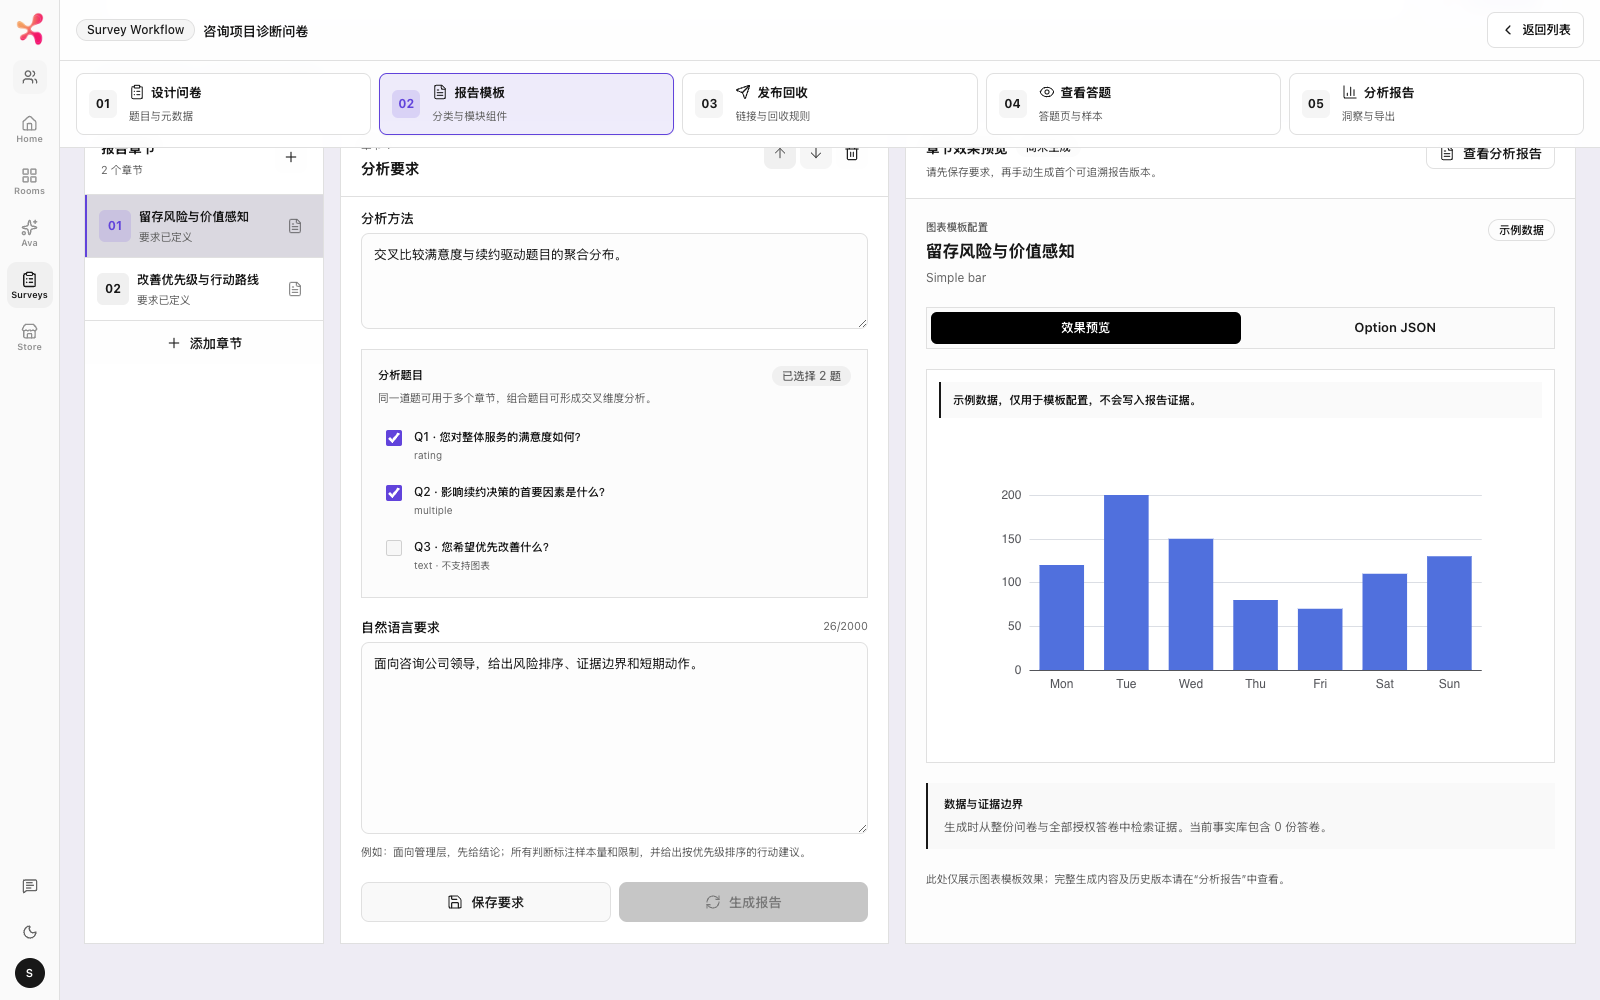
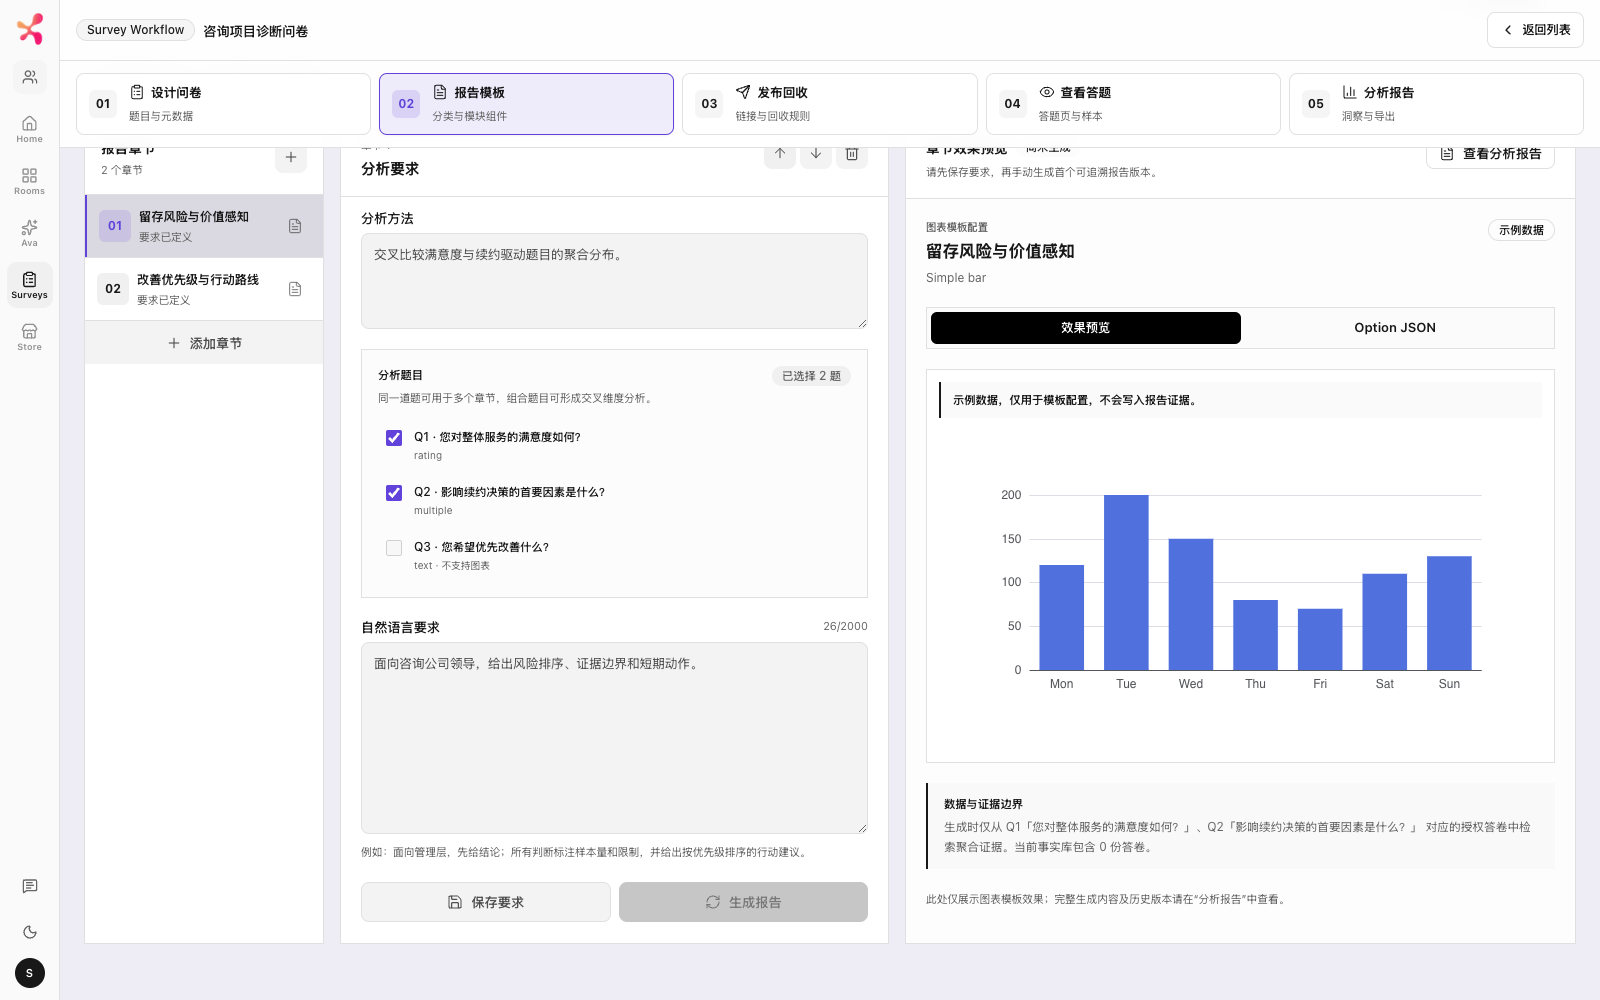
fix(survey): preserve report evidence boundaries

diff --git a/apps/web/components/survey/survey-report-output-preview.tsx b/apps/web/components/survey/survey-report-output-preview.tsx
@@ -11,14 +11,18 @@ import { findSurveyReportChartTemplate } from "@/lib/survey-report-chart-templat
 interface SurveyReportOutputPreviewProps {
   category: SurveyReportCategoryInput;
   responseCount: number;
+  sourceScope: string;
 }
 
-function PreviewBoundary({ responseCount }: { responseCount: number }) {
+function PreviewBoundary({
+  responseCount,
+  sourceScope,
+}: Pick<SurveyReportOutputPreviewProps, "responseCount" | "sourceScope">) {
   return (
     <div className="border-l-2 border-foreground bg-secondary/50 px-4 py-3">
       <p className="text-12 font-semibold text-foreground">数据与证据边界</p>
       <p className="mt-1 text-12 leading-5 text-muted-foreground">
-        生成时从整份问卷与全部授权答卷中检索证据。当前事实库包含 {responseCount} 份答卷。
+        生成时仅从 {sourceScope} 对应的授权答卷中检索聚合证据。当前事实库包含 {responseCount} 份答卷。
       </p>
     </div>
   );
@@ -27,6 +31,7 @@ function PreviewBoundary({ responseCount }: { responseCount: number }) {
 function ChartOutputPreview({
   category,
   responseCount,
+  sourceScope,
 }: SurveyReportOutputPreviewProps) {
   const [view, setView] = useState<"preview" | "json">("preview");
   const [copied, setCopied] = useState(false);
@@ -182,7 +187,7 @@ function ChartOutputPreview({
         </div>
       )}
 
-      <PreviewBoundary responseCount={responseCount} />
+      <PreviewBoundary responseCount={responseCount} sourceScope={sourceScope} />
       <p className="text-11 leading-5 text-muted-foreground">
         此处仅展示图表模板效果；完整生成内容及历史版本请在“分析报告”中查看。
       </p>
@@ -193,6 +198,7 @@ function ChartOutputPreview({
 function TextOutputPreview({
   category,
   responseCount,
+  sourceScope,
 }: SurveyReportOutputPreviewProps) {
   const requirement = category.requirement?.trim() || category.prompt.trim();
 
@@ -209,7 +215,7 @@ function TextOutputPreview({
         </p>
       </header>
 
-      <PreviewBoundary responseCount={responseCount} />
+      <PreviewBoundary responseCount={responseCount} sourceScope={sourceScope} />
 
       <div
         data-testid="report-output-empty"
@@ -231,6 +237,7 @@ function TextOutputPreview({
 function ImageOutputPreview({
   category,
   responseCount,
+  sourceScope,
 }: SurveyReportOutputPreviewProps) {
   const requirement = category.requirement?.trim() || category.prompt.trim();
 
@@ -247,7 +254,7 @@ function ImageOutputPreview({
         </p>
       </header>
 
-      <PreviewBoundary responseCount={responseCount} />
+      <PreviewBoundary responseCount={responseCount} sourceScope={sourceScope} />
 
       <div
         data-testid="report-output-empty"

diff --git a/apps/web/app/api/surveys/[id]/professional-report/survey-report.route.test.ts b/apps/web/app/api/surveys/[id]/professional-report/survey-report.route.test.ts
@@ -479,6 +479,64 @@ describe("POST /api/surveys/:id/professional-report generation claim", () => {
     );
   });
 
+  it("returns a structured 422 when an image chapter has no aggregate evidence", async () => {
+    mocks.claimSurveyReportGeneration.mockReset().mockResolvedValue({
+      status: "claimed",
+      sessionId: "20000000-0000-4000-8000-000000000041",
+    });
+    mocks.getSurveyWithQuestions.mockResolvedValue({
+      id: 41,
+      title: "图片报告测试",
+      description: "",
+      updated_at: "2026-07-18T07:00:00.000Z",
+      team_id: 3,
+      questions: [{
+        id: 12,
+        position: 0,
+        title: "补充建议",
+        type: "text",
+        required: false,
+        options: [],
+        category: "开放反馈",
+      }],
+    });
+    mocks.listSurveyResponses.mockResolvedValue([{
+      id: 91,
+      submitted_at: new Date("2026-07-18T07:30:00.000Z"),
+      answers: { "12": "希望交付更快" },
+    }]);
+    mocks.ensureSurveyReportCategoryPlan.mockResolvedValue({
+      title: "图片报告测试",
+      description: "",
+      categories: [{
+        id: "scenario-image",
+        name: "场景视觉",
+        description: "",
+        requirement: "生成研究视觉。",
+        questionIds: [12],
+        outputType: "image",
+        inputModes: ["image"],
+        prompt: "生成研究视觉。",
+        order: 1,
+        isCustom: true,
+      }],
+    });
+
+    const response = await POST(reportRequest(), params);
+
+    expect(response?.status).toBe(422);
+    await expect(response?.json()).resolves.toEqual({
+      error: "report_template_image_sources_incompatible:scenario-image",
+      failedChapter: {
+        chapterId: "scenario-image",
+        title: "场景视觉",
+        status: "failed",
+        retryable: true,
+      },
+    });
+    expect(mocks.createVersionedSurveyReportArtifact).not.toHaveBeenCalled();
+  });
+
   it("identifies the chapter and publishes nothing when report assembly validation fails", async () => {
     mocks.claimSurveyReportGeneration.mockReset().mockResolvedValue({
       status: "claimed",

diff --git a/apps/web/lib/survey-template-report.test.ts b/apps/web/lib/survey-template-report.test.ts
@@ -210,6 +210,7 @@ describe("template-driven survey report contract", () => {
         questionCount: 8,
         confidence: "medium",
       },
+      limitations: ["有效样本少于 30 份，结论仅作为方向性信号。"],
     });
 
     expect(report.schemaVersion).toBe("template-driven-report-v1");
@@ -221,6 +222,11 @@ describe("template-driven survey report contract", () => {
       statement: "基于 13 份有效答卷，对 8 道问卷题目的匿名聚合证据进行章节化分析。",
       evidenceScope: "各章节仅使用模板显式绑定的题目；同一道题可在不同分析目标下重复使用，所有结论均受当前事实版本约束。",
     });
+    expect(report.limitations).toEqual([
+      "有效样本少于 30 份，结论仅作为方向性信号。",
+    ]);
+    expect(report.chapters.every((chapter) => chapter.limitations.length === 0))
+      .toBe(true);
     expect(report).not.toHaveProperty("actions");
   });
 
@@ -240,6 +246,7 @@ describe("template-driven survey report contract", () => {
         questionCount: 8,
         confidence: "medium",
       },
+      limitations: [],
     });
 
     const publicReport = materializeReportAssetUrls(report, 59, "artifact-id");
@@ -269,10 +276,12 @@ describe("template-driven survey report contract", () => {
         questionCount: 8,
         confidence: "medium",
       },
+      limitations: [],
     });
     const historicalReport = {
       ...report,
       methodology: undefined,
+      limitations: undefined,
     } as unknown as typeof report;
 
     expect(materializeReportAssetUrls(
@@ -280,5 +289,10 @@ describe("template-driven survey report contract", () => {
       59,
       "artifact-id"
     ).methodology.statement).toContain("13 份有效答卷");
+    expect(materializeReportAssetUrls(
+      historicalReport,
+      59,
+      "artifact-id"
+    ).limitations).toEqual([]);
   });
 });

diff --git a/apps/web/e2e/survey-p25-019-template-driven-professional-report.spec.ts b/apps/web/e2e/survey-p25-019-template-driven-professional-report.spec.ts
@@ -179,6 +179,12 @@ test("generates one ordered artifact per saved template chapter", async ({
     statement: expect.stringContaining("份有效答卷"),
     evidenceScope: expect.stringContaining("模板显式绑定的题目"),
   });
+  expect(payload.report.limitations).toContain(
+    "有效样本少于 30 份，结论仅作为方向性信号。"
+  );
+  expect(payload.report.chapters.every(
+    (chapter: { limitations: string[] }) => chapter.limitations.length === 0
+  )).toBe(true);
   expect(JSON.stringify(payload.report)).not.toContain("survey-reports/");
 
   const imageChapter = payload.report.chapters[2] as {
@@ -205,6 +211,11 @@ test("generates one ordered artifact per saved template chapter", async ({
   await expect(methodology).toHaveCount(1);
   await expect(methodology).toContainText("研究方法");
   await expect(methodology).toContainText("证据口径");
+  await expect(methodology).toContainText("解读限制");
+  await expect(page.getByText(
+    "有效样本少于 30 份，结论仅作为方向性信号。",
+    { exact: true }
+  )).toHaveCount(1);
   await expect(page.getByTestId("professional-report-chapter-nav"))
     .not.toHaveClass(/sticky/);
   await expect(page.getByTestId("professional-report-document"))

diff --git a/apps/web/lib/survey-template-report.ts b/apps/web/lib/survey-template-report.ts
@@ -74,6 +74,7 @@ export interface TemplateDrivenSurveyReport {
     statement: string;
     evidenceScope: string;
   };
+  limitations: string[];
   chapters: TemplateDrivenReportChapter[];
 }
 
@@ -277,6 +278,7 @@ export function assembleTemplateDrivenReport(input: {
   chapters: TemplateDrivenReportChapter[];
   allowedEvidenceRefs: ReadonlySet<string>;
   sample: TemplateDrivenSurveyReport["sample"];
+  limitations: string[];
 }): TemplateDrivenSurveyReport {
   validateTemplateDrivenReport(
     input.snapshot,
@@ -302,6 +304,7 @@ export function assembleTemplateDrivenReport(input: {
       evidenceScope:
         "各章节仅使用模板显式绑定的题目；同一道题可在不同分析目标下重复使用，所有结论均受当前事实版本约束。",
     },
+    limitations: Array.from(new Set(input.limitations)),
     chapters: input.chapters,
   };
 }
@@ -320,6 +323,7 @@ export function materializeReportAssetUrls(
   return {
     ...report,
     methodology,
+    limitations: report.limitations ?? [],
     chapters: report.chapters.map((chapter) => {
       if (chapter.outputType !== "image") return chapter;
       const { assetKey: _assetKey, ...publicChapter } = chapter;

diff --git a/apps/web/components/survey/survey-versioned-report-composer.tsx b/apps/web/components/survey/survey-versioned-report-composer.tsx
@@ -157,6 +157,17 @@ export function SurveyVersionedReportComposer({
   const missingQuestionIds = selectedCategory?.questionIds.filter(
     (questionId) => !availableQuestionIds.has(Number(questionId))
   ) ?? [];
+  const selectedSourceScope = selectedCategory?.questionIds
+    .map((questionId) => {
+      const questionIndex = questions.findIndex(
+        (question) => Number(question.id) === Number(questionId)
+      );
+      const question = questionById.get(Number(questionId));
+      return question
+        ? `Q${questionIndex + 1}「${question.title}」`
+        : `题目 ${questionId}`;
+    })
+    .join("、") || "当前章节所选题目";
   const sourceValidationErrors = categories.flatMap((category) => {
     if (!category.questionIds.length) {
       return [{
@@ -812,6 +823,7 @@ export function SurveyVersionedReportComposer({
               <SurveyReportOutputPreview
                 category={selectedCategory}
                 responseCount={survey.responses}
+                sourceScope={selectedSourceScope}
               />
             ) : (
               <div className="grid min-h-96 place-items-center px-8 text-center">

diff --git a/apps/web/app/api/surveys/[id]/professional-report/route.ts b/apps/web/app/api/surveys/[id]/professional-report/route.ts
@@ -468,6 +468,7 @@ export async function POST(request: Request, { params }: { params: { id: string 
         questionCount: countDistinctTemplateQuestions(snapshot),
         confidence: context.evidence.sample.confidence,
       },
+      limitations: context.evidence.limitations,
     });
     await createSurveyAiModelTrace({
       id: randomUUID(),
@@ -537,6 +538,7 @@ export async function POST(request: Request, { params }: { params: { id: string 
       || errorMessage.startsWith("report_template_chapter_sources_unavailable:")
       || errorMessage.startsWith("report_template_text_sources_incompatible:")
       || errorMessage.startsWith("report_template_chart_sources_incompatible:")
+      || errorMessage.startsWith("report_template_image_sources_incompatible:")
     ) {
       const chapterId = errorMessage.split(":")[1] ?? "";
       return NextResponse.json({

diff --git a/apps/web/lib/survey-report-output-preview.test.ts b/apps/web/lib/survey-report-output-preview.test.ts
@@ -32,6 +32,7 @@ function renderPreview(category: SurveyReportCategoryInput) {
     React.createElement(SurveyReportOutputPreview, {
       category,
       responseCount: 12,
+      sourceScope: "Q2「购买原因」、Q5「推荐意愿」",
     })
   );
 }
@@ -56,5 +57,12 @@ describe("SurveyReportOutputPreview", () => {
     expect(markup).toContain("Simple line");
     expect(markup).toContain('data-testid="report-chart-canvas"');
     expect(markup).not.toContain("图表模板无效");
+  });
+
+  it("describes only the questions selected for the current chapter", () => {
+    const markup = renderPreview(chartCategory("line-simple"));
+
+    expect(markup).toContain("Q2「购买原因」、Q5「推荐意愿」");
+    expect(markup).not.toContain("整份问卷");
   });
 });

diff --git a/apps/web/lib/report-export.test.ts b/apps/web/lib/report-export.test.ts
@@ -83,6 +83,7 @@ describe("buildProfessionalReportHtml", () => {
       },
       sample: { responseCount: 13, questionCount: 8, confidence: "medium" },
       methodology: { statement: "匿名聚合分析", evidenceScope: "仅使用绑定题目" },
+      limitations: ["有效样本少于 30 份，结论仅作为方向性信号。"],
       chapters: [
         {
           chapterId: "summary",
@@ -134,6 +135,7 @@ describe("buildProfessionalReportHtml", () => {
     expect(html).toContain("研究方法与证据口径");
     expect(html).toContain("匿名聚合分析");
     expect(html).toContain("仅使用绑定题目");
+    expect(html.match(/有效样本少于 30 份/g)).toHaveLength(1);
     expect(html).not.toContain("执行摘要");
   });
 });

diff --git a/apps/web/components/survey/professional-report-document.tsx b/apps/web/components/survey/professional-report-document.tsx
@@ -218,6 +218,16 @@ function TemplateDrivenReportDocument({
             {report.methodology.evidenceScope}
           </p>
         </div>
+        {report.limitations.length ? (
+          <div className="border-l-2 border-foreground pl-4 lg:col-span-2">
+            <p className="text-11 font-semibold text-muted-foreground">解读限制</p>
+            <ul className="mt-2 grid gap-1 text-13 leading-6 text-muted-foreground">
+              {report.limitations.map((limitation) => (
+                <li key={limitation}>{limitation}</li>
+              ))}
+            </ul>
+          </div>
+        ) : null}
       </section>
 
       <nav

diff --git a/apps/web/lib/survey-report-generation.ts b/apps/web/lib/survey-report-generation.ts
@@ -66,7 +66,10 @@ export function surveyReportGenerationErrorMessage(
   );
   if (
     typeof payload.error === "string"
-    && payload.error.startsWith("report_template_text_sources_incompatible:")
+    && (
+      payload.error.startsWith("report_template_text_sources_incompatible:")
+      || payload.error.startsWith("report_template_image_sources_incompatible:")
+    )
   ) {
     return `章节「${title}」缺少可用的匿名聚合证据，上一份完整报告已保留。请调整题目来源或输出类型。`;
   }

diff --git a/apps/web/e2e/survey-p25-025-ai-iterable-report-template.spec.ts b/apps/web/e2e/survey-p25-025-ai-iterable-report-template.spec.ts
@@ -279,6 +279,7 @@ test("analysis report renders every saved chapter as one continuous document", a
       statement: "基于 118 份有效答卷，对 3 道问卷题目的匿名聚合证据进行章节化分析。",
       evidenceScope: "各章节仅使用模板显式绑定的题目，同一道题可在不同分析目标下重复使用。",
     },
+    limitations: [],
     chapters: chapterTitles.map((title, index) => ({
       chapterId: `chapter-${index + 1}`,
       order: index + 1,
